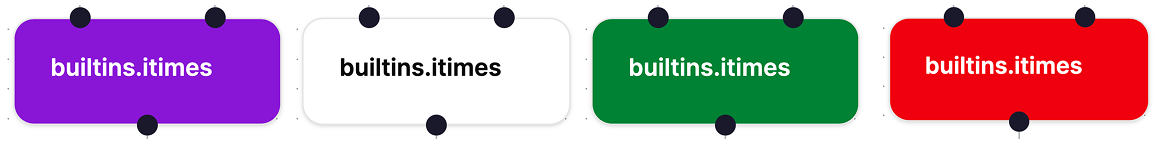
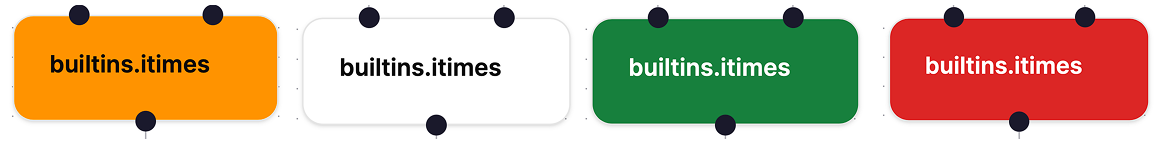
Change running to amber

diff --git a/tierkreis_visualization/frontend/src/components/colors.ts b/tierkreis_visualization/frontend/src/components/colors.ts
@@ -1,7 +1,7 @@
 export const bg_color = (status: string) => {
   switch (status) {
     case "Started":
-      return "bg-nexus-purple text-white";
+      return "bg-amber-500";
     case "Finished":
       return "bg-nexus-green text-white";
     case "Error":
@@ -14,7 +14,7 @@ export const bg_color = (status: string) => {
 export const border_color = (status: string) => {
   switch (status) {
     case "Started":
-      return "border-nexus-purple";
+      return "border-amber-500";
     case "Finished":
       return "border-nexus-green";
     case "Error":

diff --git a/docs/source/tutorial/visualization.md b/docs/source/tutorial/visualization.md
@@ -97,7 +97,7 @@ The node status is indicated by the border color of the nodes:
 ![node state example](../_static/visualization/node_states.png)
 
 From left to right
-- Purple: Node is currently running
+- Yellow: Node is currently running
 - White: Node has not been started yet
 - Green: Node is finished
 - Red: An error has occurred in the node (or one of its nested nodes)
